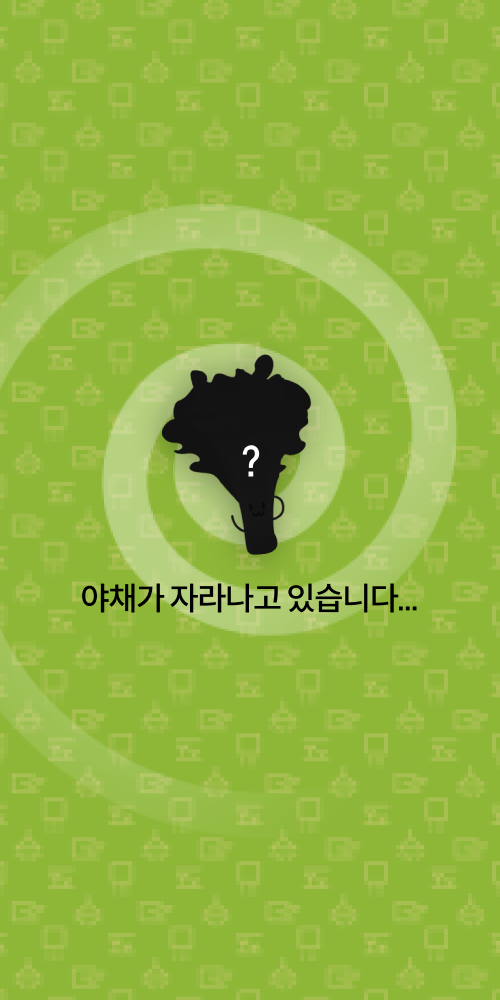
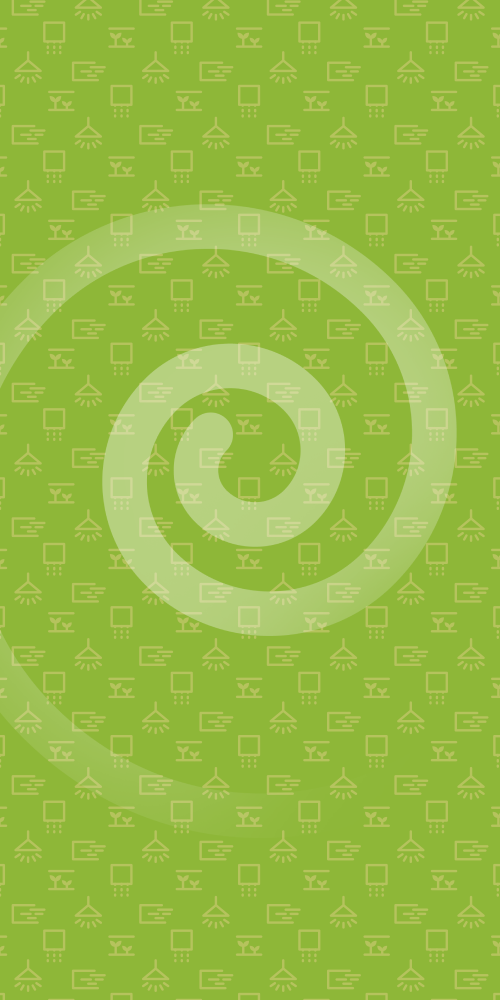
Style : Loading

diff --git a/team_1/src/Loading/Loading.js b/team_1/src/Loading/Loading.js
@@ -25,7 +25,8 @@ function Loading() {
     return( 
         <div className='Loading'>
                 {/* alert === true */}
-                       <Link to="/ResultFail"><img className="Tembtn3" alt="Tembtn" src="img/Tembtn.png"/></Link>
+                <img className="Loadimg" alt="Loadimg" src="img/Loadimg.png"/>
+                <Link to="/ResultFail"><img className="Tembtn3" alt="Tembtn" src="img/Tembtn.png"/></Link>
     </div>
 );
 }

diff --git a/team_1/src/Loading/Loading.css b/team_1/src/Loading/Loading.css
@@ -48,7 +48,7 @@ html, body{
     margin-left: auto;
     margin-right: auto;
     
-    top: 60%;
+    top: 30%;
     bottom: 50%;
 }
 
@@ -61,9 +61,8 @@ html, body{
     height: auto;
     margin-left: auto;
     margin-right: auto;
-    
-    top: 80%;
-    bottom: 50%;
+
+    margin-top: 90%;
 }
 
 
